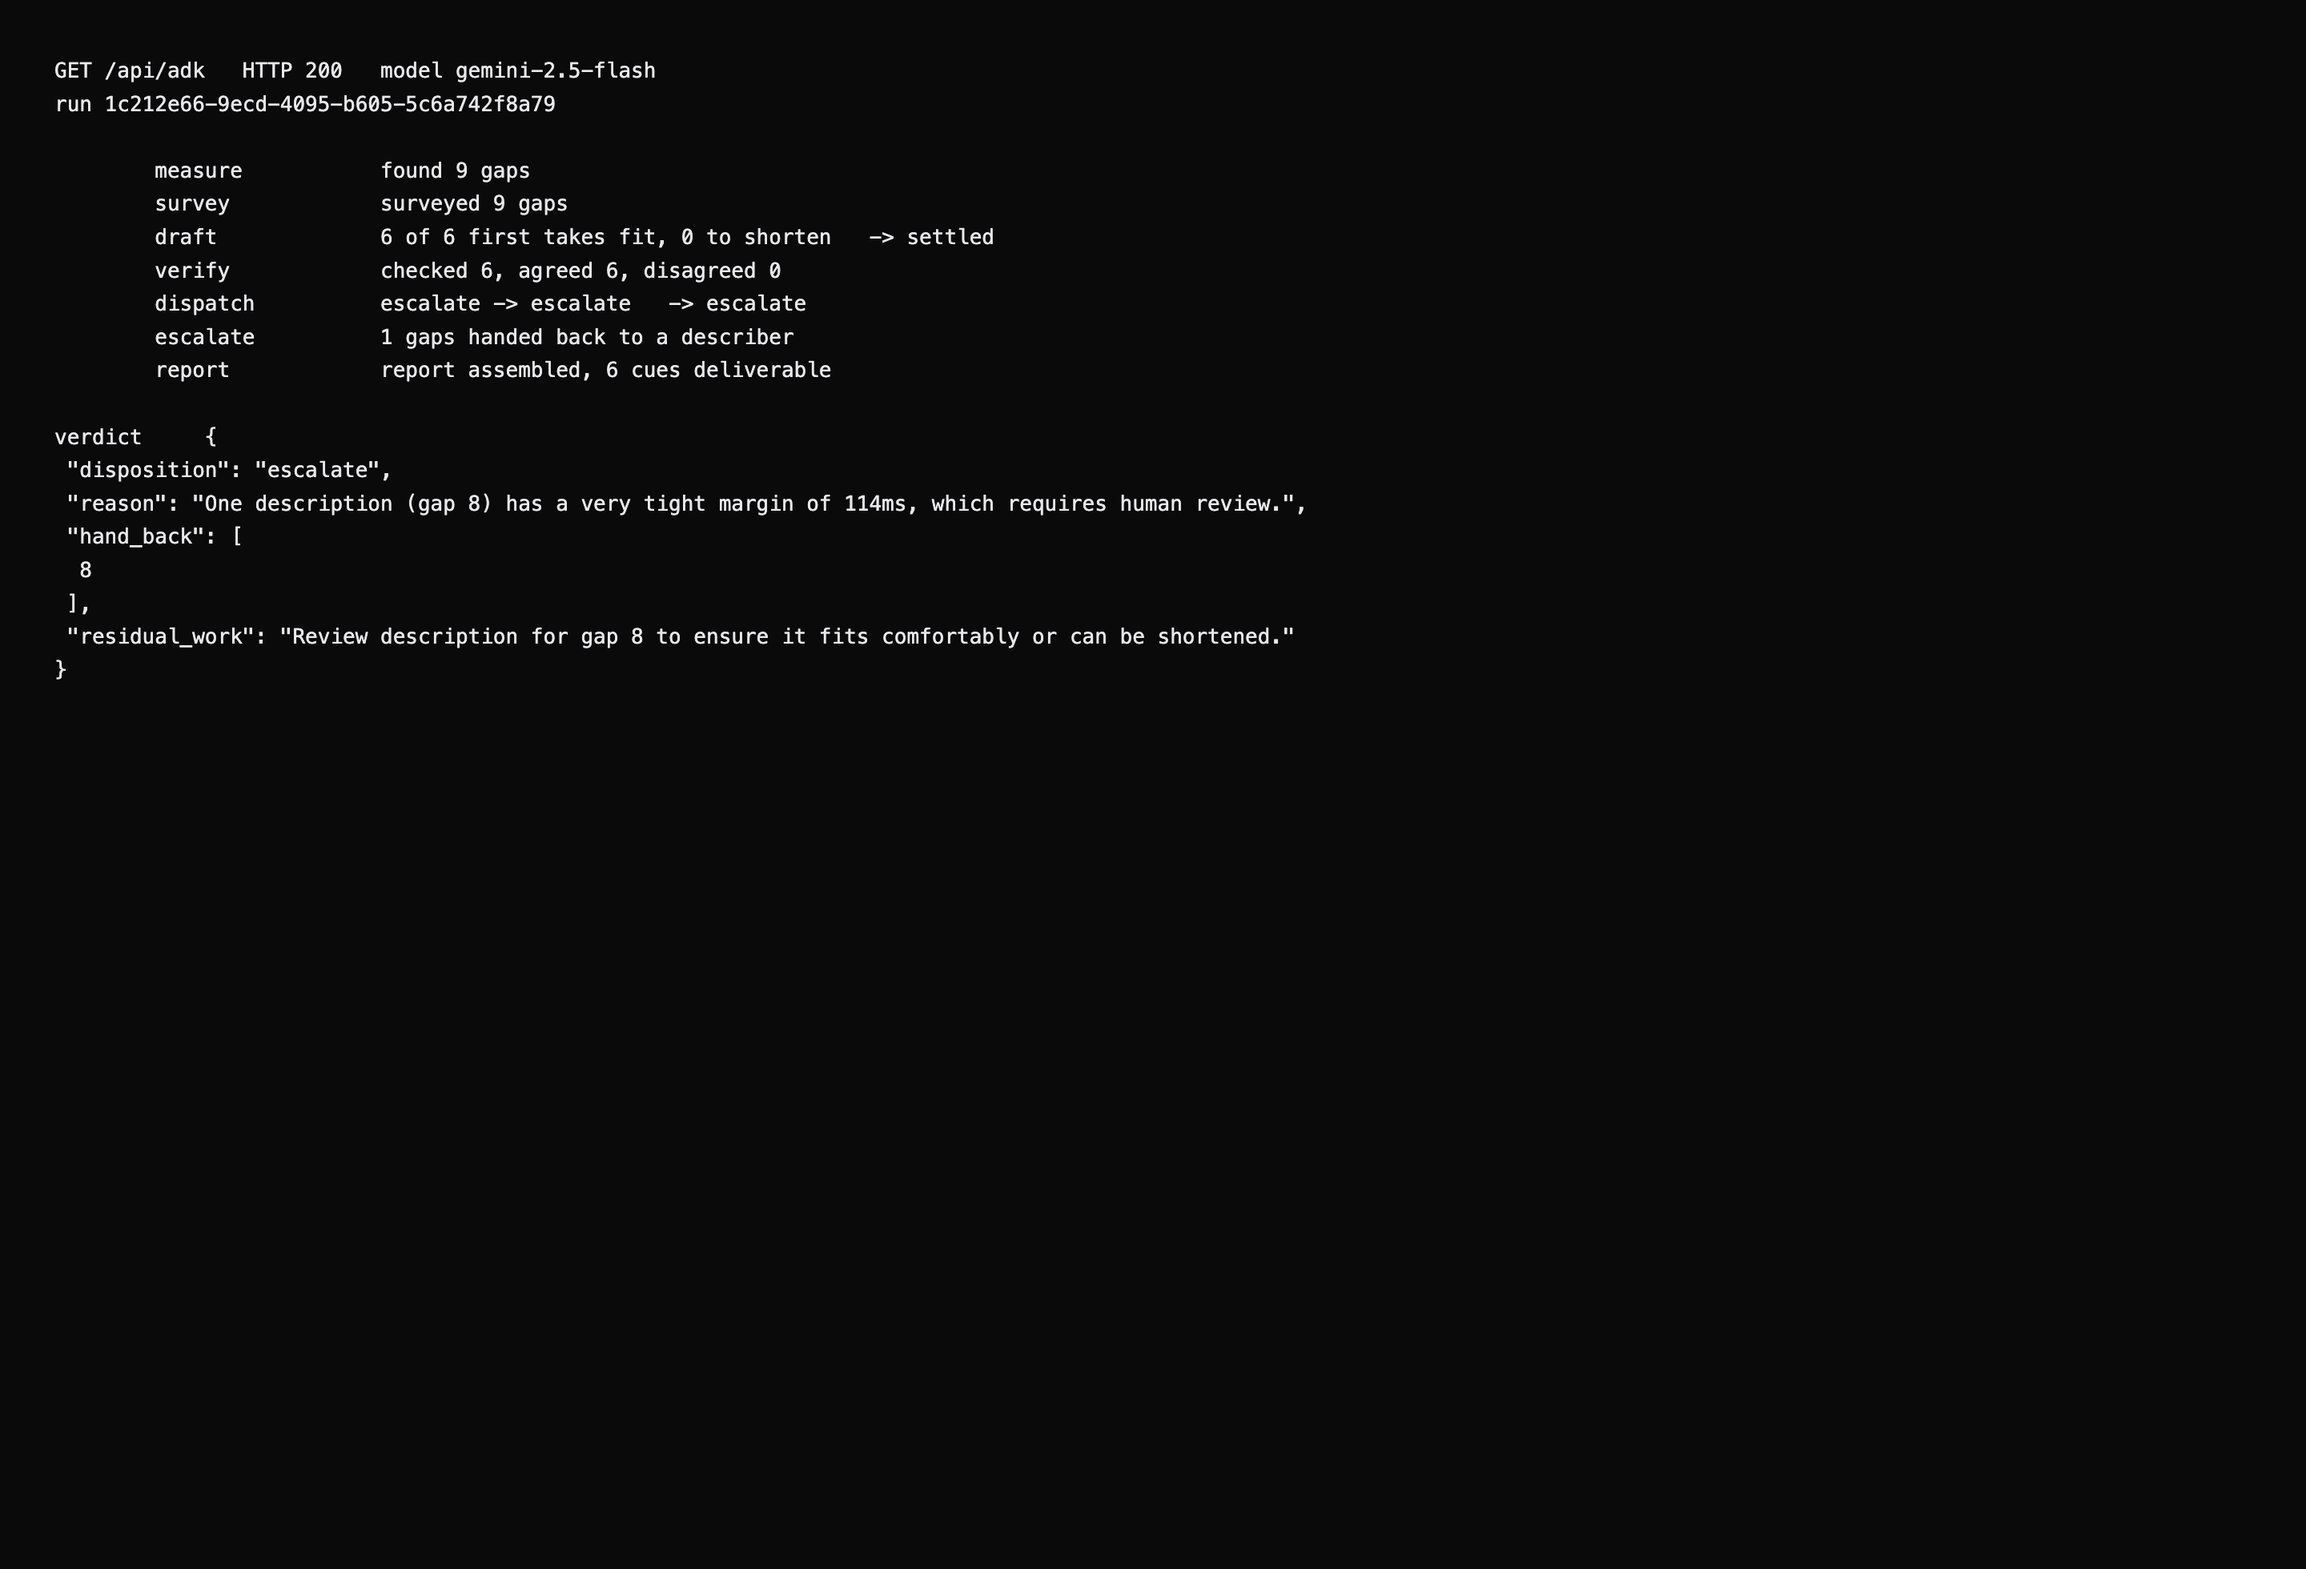
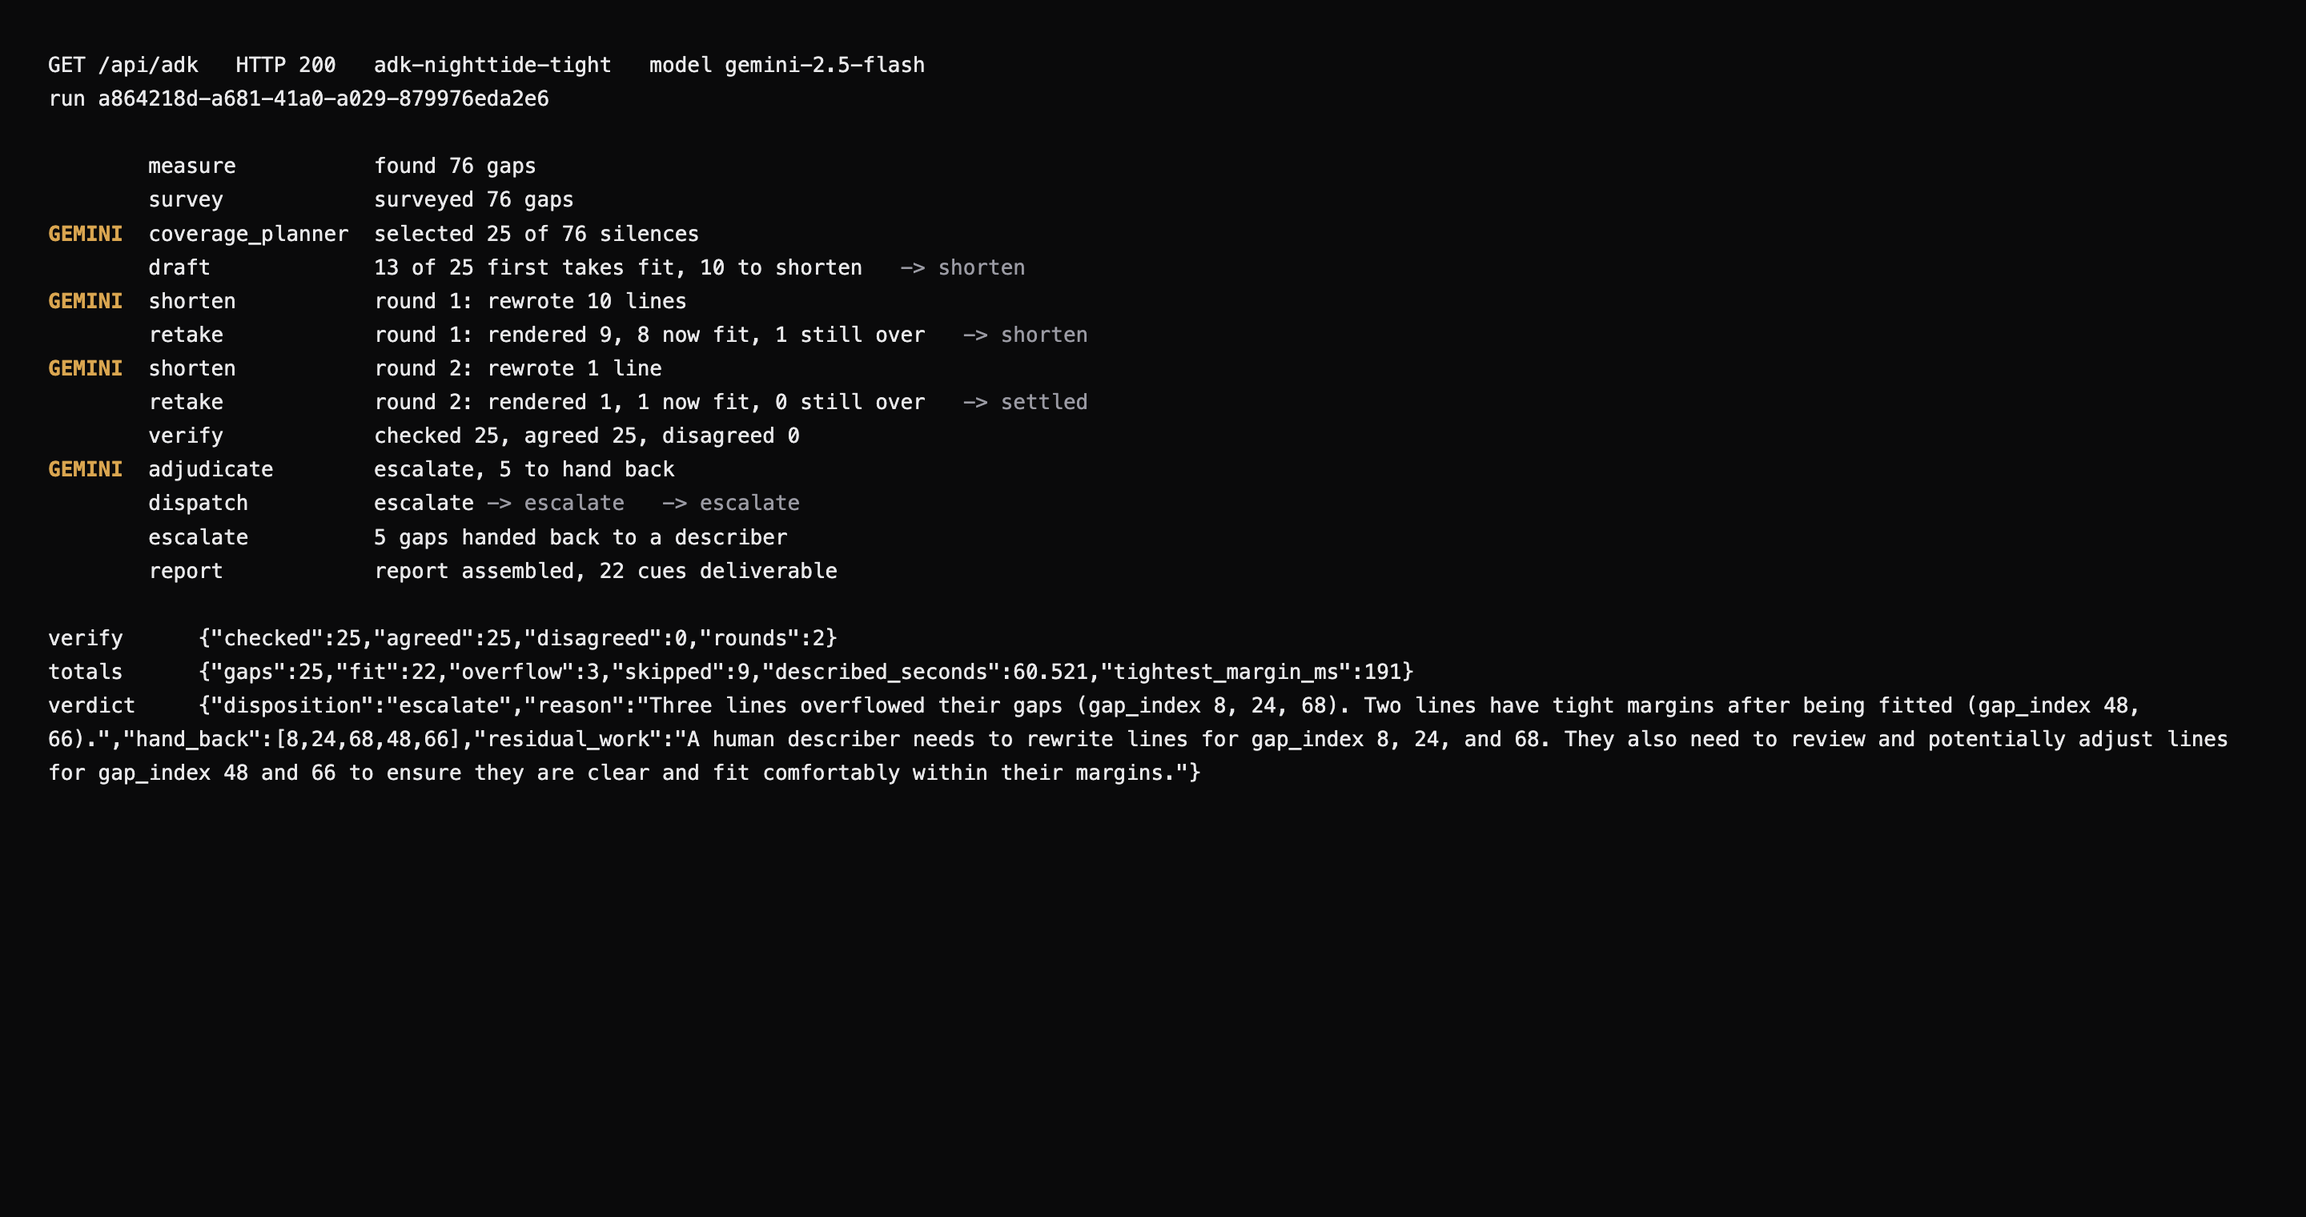
docs: the submission story, and screenshots of the run that produced it
docs/STORY.md carries the eleven Devpost fields with every figure traced to the
command or the URL that produced it. The elevator pitch is 179 characters.

Five screenshots under docs/img/, all captured from the live service rather than
from a local build: the graph as the tight run drew it with shorten and retake
appearing twice because the cycle turned twice, GET /api/adk with the three
Gemini nodes marked and the adjudicator's structured verdict, the seven rejected
takes each playable against the silence they were written for, the take ladder
where gap 3's first take at 11.251s sits visibly past a 4.173s silence, and the
Bob sessions read back out of the ACP transcripts on disk.

backstage: gate --fail-on HIGH passes with nothing at or above HIGH. The four
absences that used to sit under a limitations heading are in .progress/LEDGER.md,
which is gitignored, and the parts of them that were refusals rather than gaps
are in the README in the present tense.

Live suite against Vertex: 55 passed, 0 skipped, 82.4s.

diff --git a/docs/STORY.md b/docs/STORY.md
@@ -70,11 +70,43 @@ residual_work   Review description for gap 8 to ensure it fits comfortably
 
 114ms is a real number from a real WAV. Nothing in the code says a margin below some threshold is too tight, because nobody has measured what a mixer will tolerate. That was a judgement made at runtime, against figures the model could not alter. The CLI exited 3 rather than 0.
 
-![The graph as it ran, each node carrying what it decided and the branch it took, with the verdict underneath](img/graph-and-verdict.png)
+### The same film where the lines do not fit
 
-The same run read back off the live service, with the three Gemini nodes marked:
+Drop the threshold to 2 seconds and the silences get short. Seventy-six of them, of which the planner took 25, and ten of those 25 first takes overran. That is the run where the shortening cycle earns its place:
 
-![GET /api/adk on the hosted service, showing every node the run executed and the adjudicator's structured verdict](img/gemini-nodes-live.png)
+```
+       measure           found 76 gaps
+       survey            surveyed 76 gaps
+GEMINI coverage_planner  selected 25 of 76 silences
+       draft             13 of 25 first takes fit, 10 to shorten       -> shorten
+GEMINI shorten           round 1: rewrote 10 lines
+       retake            round 1: rendered 9, 8 now fit, 1 still over  -> shorten
+GEMINI shorten           round 2: rewrote 1 line
+       retake            round 2: rendered 1, 1 now fit, 0 still over  -> settled
+       verify            checked 25, agreed 25, disagreed 0
+GEMINI adjudicate        escalate, 5 to hand back
+       dispatch          escalate -> escalate                          -> escalate
+       escalate          5 gaps handed back to a describer
+       report            report assembled, 22 cues deliverable
+```
+
+Two turns round the cycle, because `retake` measured a take that still overran and routed back into `shorten`. Round 1 rewrote ten lines and rendered nine of them: the tenth came back as `'Man sits.'` at 9 characters, which is a fragment rather than a description, and it was refused before the TTS call.
+
+Nine silences never reached the shortener at all. Their measured overrun left a ceiling of one or two characters, and each was handed to a describer with the arithmetic attached rather than filled with a token:
+
+```
+gap 8   the measured overrun leaves 1 characters, under the 11 a
+        description needs. This 2.581s silence cannot hold a spoken
+        line at the measured rate.
+```
+
+22 lines fit, 3 stayed OVERFLOW, and the shortest accepted line is exactly 11 characters. `verify` reproduced all 25 verdicts from disk. Run `a864218d`, the default at `/api/adk`:
+
+![GET /api/adk on the hosted service: every node the run executed, the three Gemini nodes marked, the routes taken, and the adjudicator's structured verdict](img/gemini-nodes-live.png)
+
+The same run as the page draws it, each node carrying what decided there:
+
+![The graph as it ran, with shorten and retake appearing twice because the cycle turned twice, and the verdict underneath](img/graph-and-verdict.png)
 
 ### The takes that did not survive
 
@@ -228,13 +260,15 @@ Bob also ships an `attribution_logs` table with per-file line ranges. It is empt
 
 **The graph state schema was decorative.** ADK resolves each node's parameters out of the session state and does not apply the `state_schema` defaults when filling it. A hand-written starting dict missing one key raises inside whichever node wanted it, which on this graph is after the whole silencedetect pass. That is how `survey` was found asking for `headroom_ms` from a state that did not have it. The starting state is now built by instantiating `ADState` and dumping it, so the schema's defaults are the run's defaults, and a test asserts every non-default parameter of every function node exists in it.
 
+**A timing gate that was right about the wrong thing.** At a 2 second threshold, gap 68 held "Man reads newspaper." at 20 characters, which rendered to 17.091s against a 3.367s silence, 13974ms over. The measured overrun left a ceiling of 2 characters. Asked for a rewrite that fit, the shortener returned "Mn". ffprobe measured it at 0.691s and called it FIT, which is correct, because two characters really are quick to say. A token entered a described master and every check in the project was happy with it. The gate was not wrong; two characters was never a description. `ad.conform.MIN_USEFUL_CHARS` is now 11, the shortest line in the corpus that is still a description rather than a fragment, and a ceiling below it is handed to a describer instead of to the model.
+
 **A number that had already been wrong once, written down in four places.** The README claimed the speaking rate lived in exactly one place. It lived in three more: `ADState`, `run_pipeline`, and the graph. `tests/test_single_rate.py` walks the AST of every module under `ad/` and `agent/` and fails if the value appears as a literal outside `ad/fit.py`, and a second test patches the declaration and asserts every reader follows. Writing `8.6` back into `ADState` turns both red.
 
 ## Accomplishments that we're proud of
 
 **The agent can lose an argument to a measurement, and did.** On the run above every line fit and nothing disagreed, and `adjudicate` still escalated on a 114ms margin. In the other direction, `dispatch` will not let a model publish a run holding a row `ffprobe` called OVERFLOW, and `escalate` adds every non-FIT gap the adjudicator left out. Both directions have a test, and both go red when the guard is removed.
 
-**Every check was broken on purpose before it was believed.** Six mutations, each confirmed red and then restored to green:
+**Every check was broken on purpose before it was believed.** Seven mutations, each confirmed red and then restored to green:
 
 | mutation | red |
 |---|---|
@@ -244,6 +278,7 @@ Bob also ships an `attribution_logs` table with per-file line ranges. It is empt
 | the non-FIT rows `escalate` adds emptied | 1 failed, 16 passed |
 | `chars_per_second` deleted from the cue dict | 1 failed, 16 passed |
 | the measured rate written back into `ADState` | 2 failed, 1 passed |
+| the minimum description length set to 0 | 2 failed, 18 passed |
 
 **The rejected takes ship as playable audio.** A margin figure is a claim until you can hear the line that produced it. Seven rejected takes are served from the hosted page, and the one that overran by 15ms is the interesting one.
 
